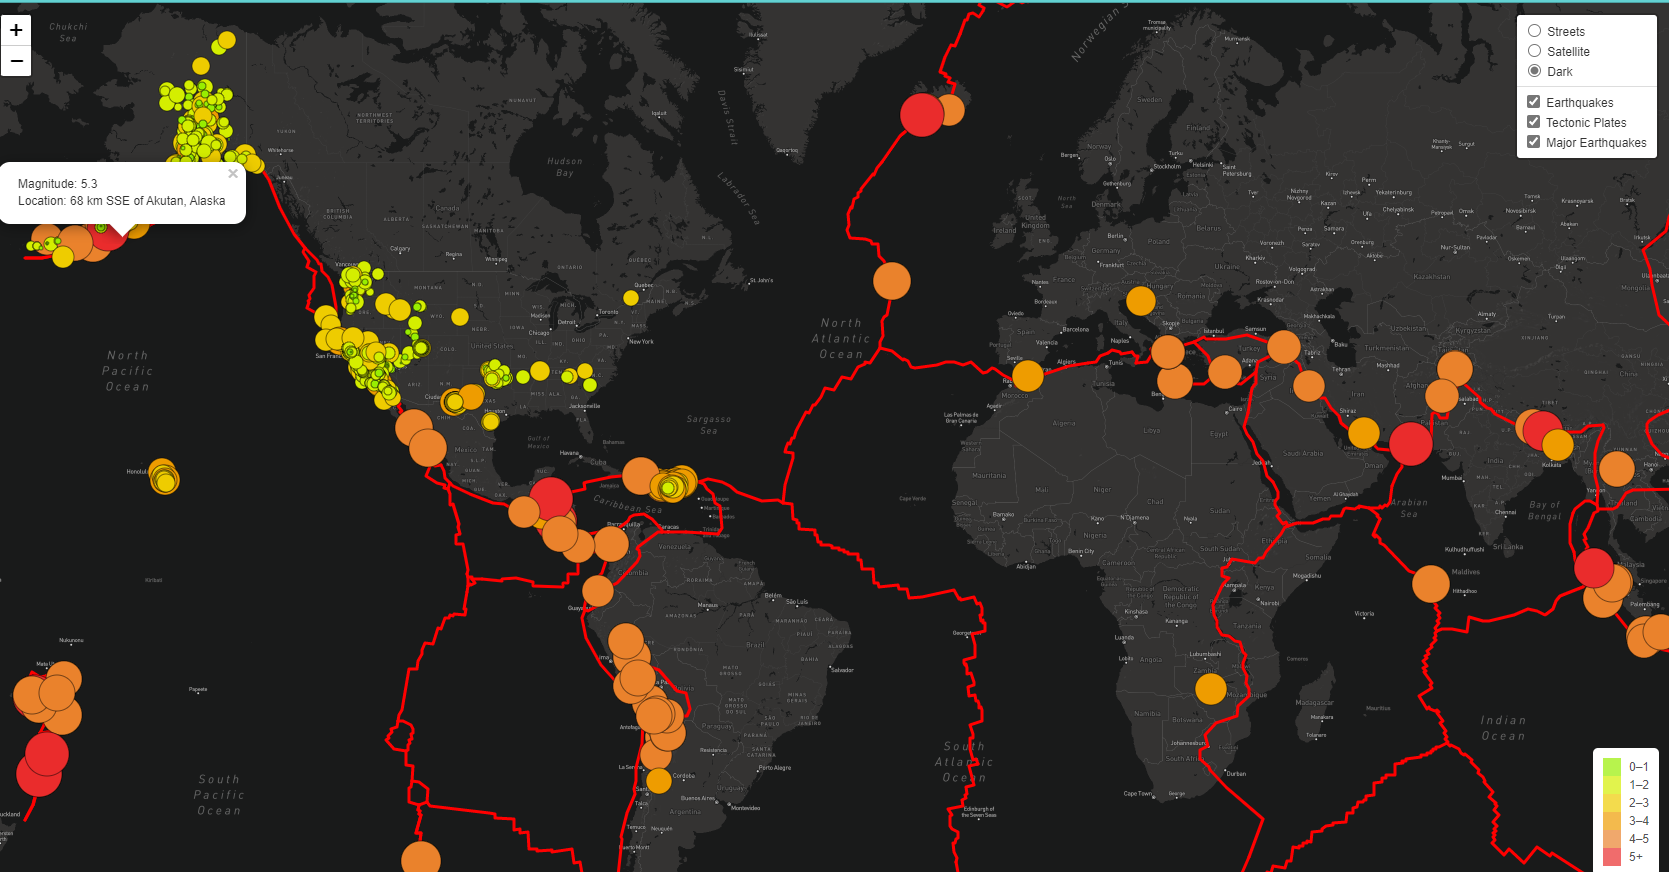
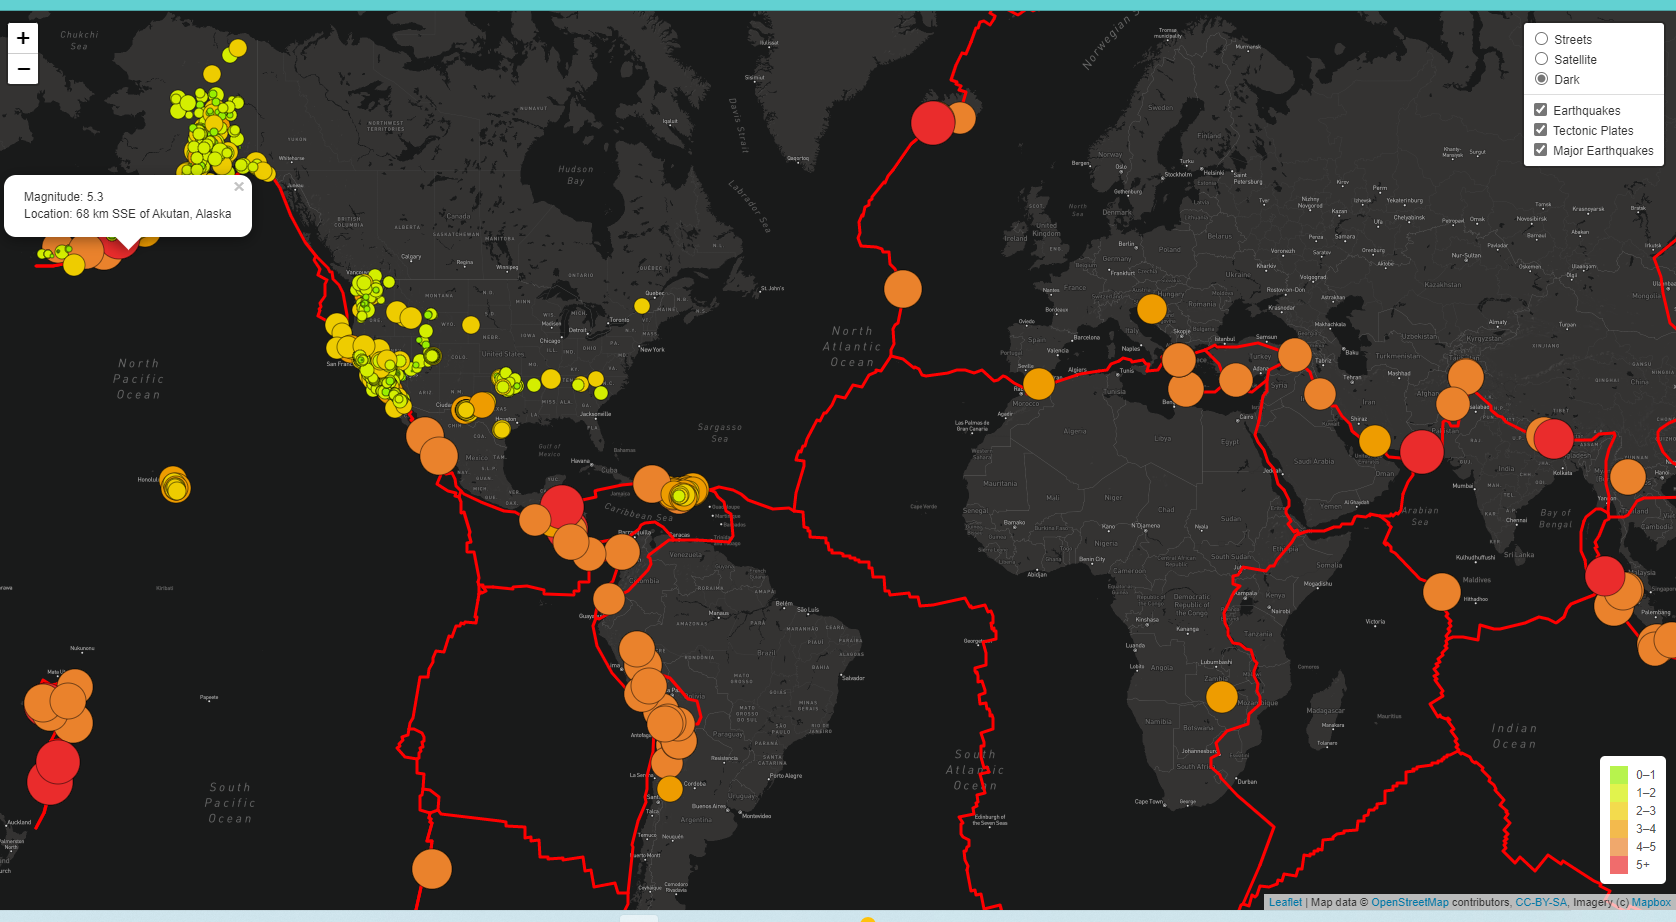
readme

diff --git a/README.md b/README.md
@@ -2,14 +2,13 @@
 
 ## Project Overview
 
-#### It was requested to add new functionalities to a former earthquakes map.  That original map had been created by adding earthquake data of the recorded earthquakes in the past 7 days. The earthquake data was overlaid to two different tile layers for the user to be able to turn the earthquake data on and off. 
+#### The purpose of this project is adding new functionalities to the  former earthquakes map, created with recorded earthquakes in the past 7 days. In that former map the earthquake data had been overlaid to two different tile layers. The user was able to turn the earthquake data on and off. 
 
-#### With this new project the user will be able to see those earthquakes with magnitudes greater than 4.5 in relation with the tectonic plates' location on the earth. 
+#### The project allows the user to see also earthquakes with magnitudes greater than 4.5 in relation with the tectonic plates' location on the earth. 
 
-#### The tectonic plate data will be added to the overlay object with the earthquake data. 
-
-#### Additionaly, a third map style as a tile layer object. 
+#### The tectonic plate data is added to the overlay object with the earthquake data. Additionaly, a third map style is also added as a tile layer object. 
 ----
 ## Results
 ![Del1](https://github.com/Connectime4ever/Mapping_Earthquakes/blob/main/Del1.png)
 ![Del2](https://github.com/Connectime4ever/Mapping_Earthquakes/blob/main/Del2.png)
+![Del3](https://github.com/Connectime4ever/Mapping_Earthquakes/blob/main/Del3.png)
